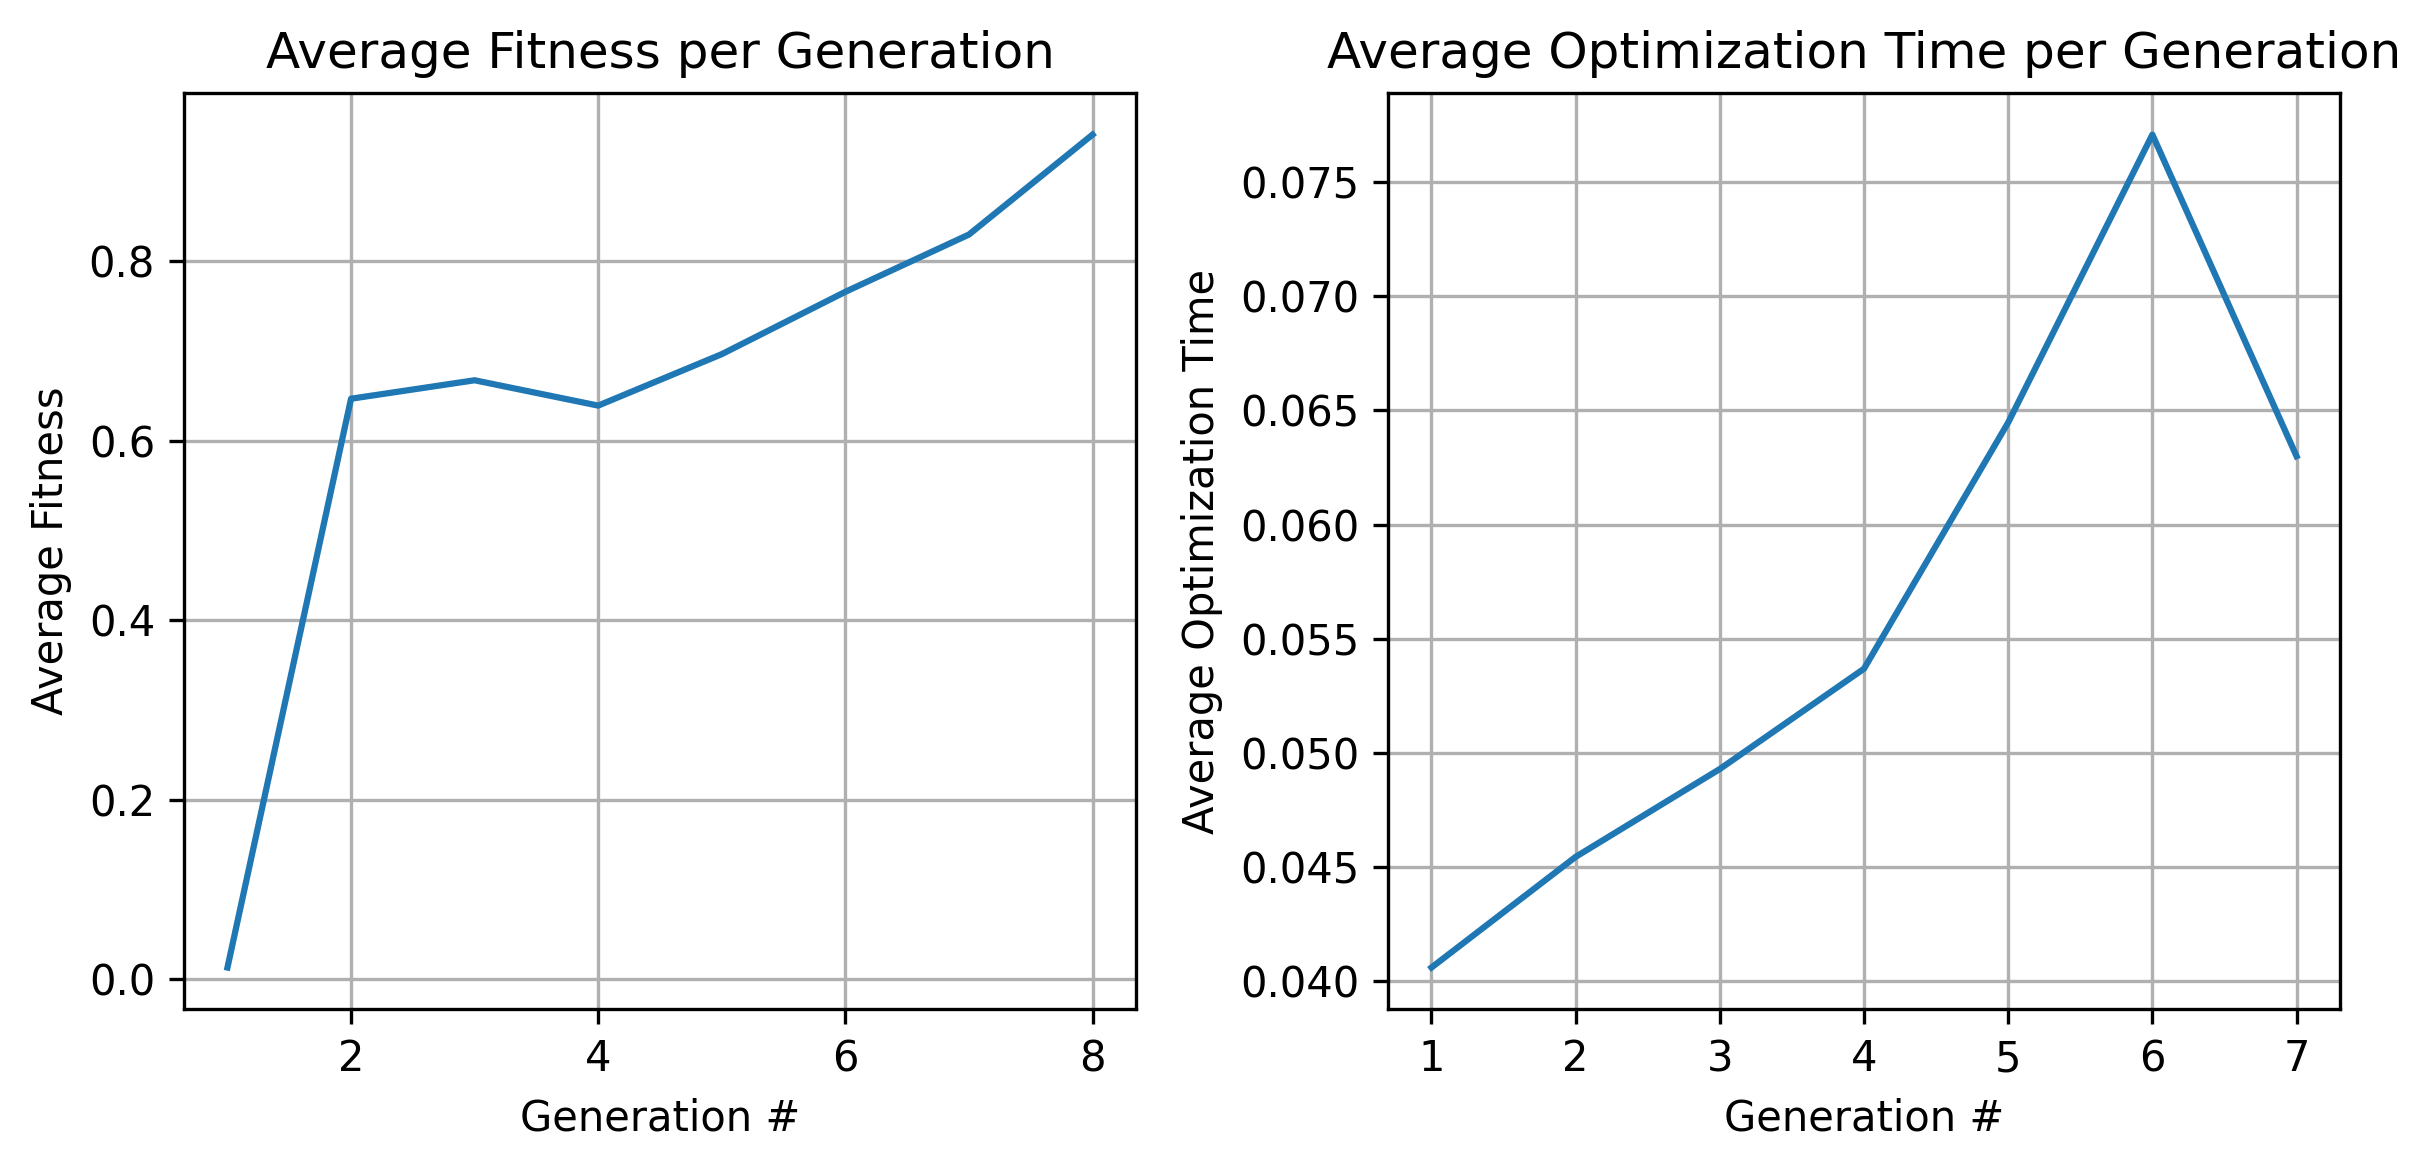
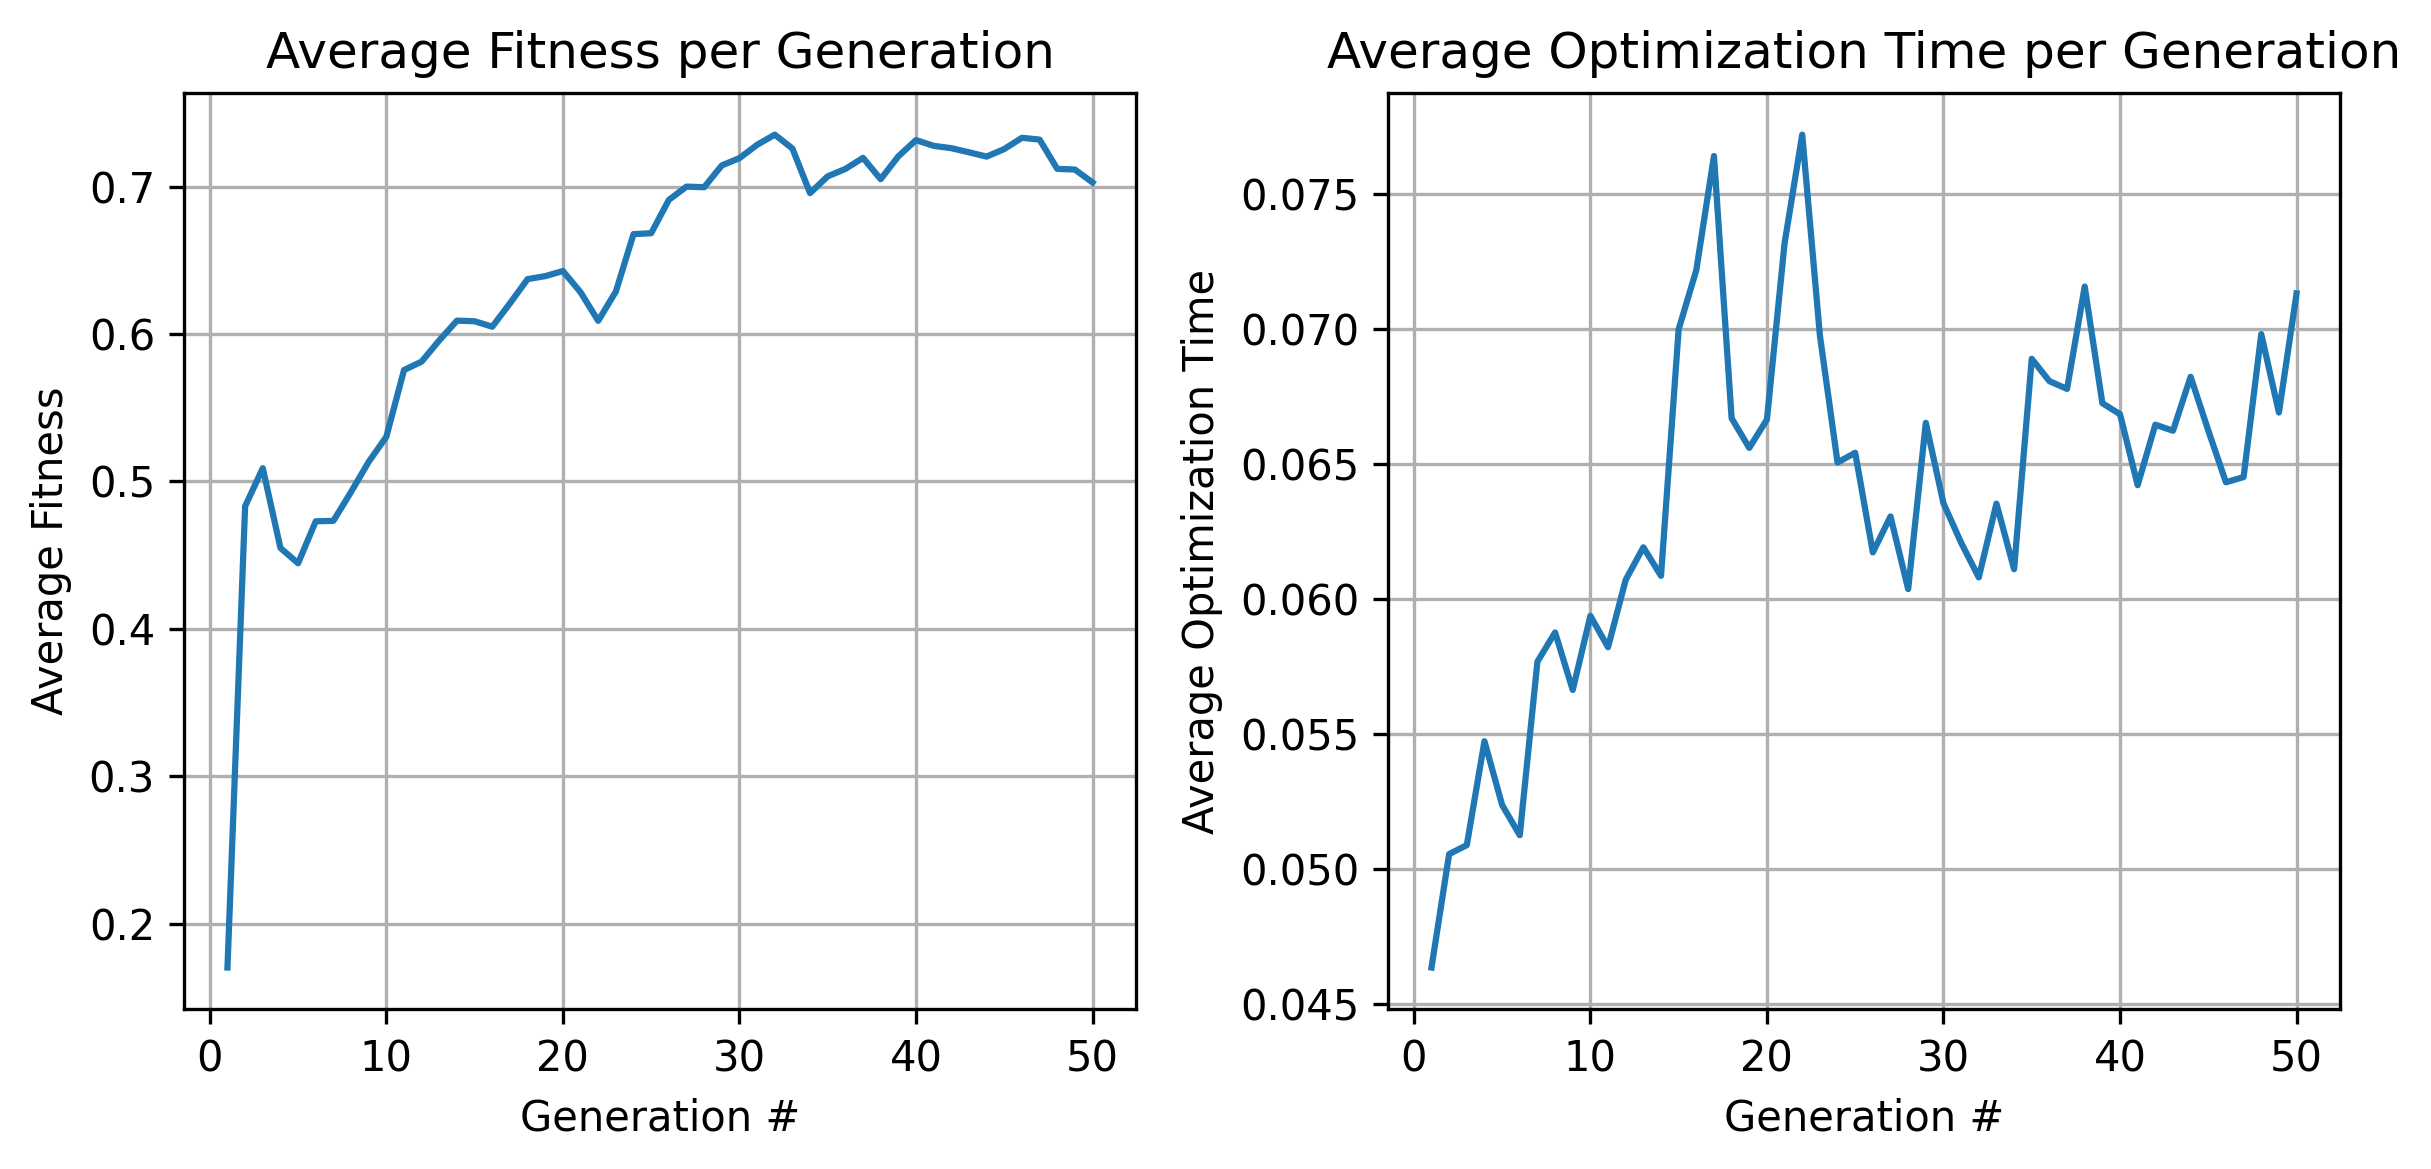
Hyperparameter search for ideal circuit depth parameter for random circuit initial population generation.

diff --git a/GASPGP/hyperparameter_search.py b/GASPGP/hyperparameter_search.py
@@ -1,0 +1,145 @@
+"""
+Hyperparameter search for good parameters to the initial population randomization. (Clauded)
+"""
+
+import json
+import os
+import sys
+import subprocess
+import itertools
+from datetime import datetime
+from pathlib import Path
+import numpy as np
+from run_GASP_experiment import run_experiment
+
+HYPERPARAMETER_GRID = {
+    'circuit_depth': [3, 5, 7],
+}
+
+NUM_TRIALS = 3  # Number of trials per hyperparameter config for robustness
+
+def run_hyperparameter_search():
+    """
+    Run hyperparameter search over the circuit depth parameter.
+    Each configuration is tested multiple times for statistical robustness.
+    """
+    results = []
+
+    print(f"Starting hyperparameter search at {datetime.now()}")
+    print(f"Testing circuit depths: {HYPERPARAMETER_GRID['circuit_depth']}")
+    print(f"Number of trials per config: {NUM_TRIALS}")
+    print("=" * 80)
+
+    for circuit_depth in HYPERPARAMETER_GRID['circuit_depth']:
+        print(f"\n{'='*80}")
+        print(f"Testing circuit_depth = {circuit_depth}")
+        print(f"{'='*80}\n")
+
+        trial_results = []
+
+        for trial in range(NUM_TRIALS):
+            print(f"\n--- Trial {trial + 1}/{NUM_TRIALS} for depth={circuit_depth} ---")
+
+            try:
+                result = run_experiment(circuit_depth=circuit_depth)
+                trial_results.append(result)
+
+                print(f"Trial {trial + 1} completed:")
+                print(f"  - Final generation: {result['final_generation']}")
+                print(f"  - Max fitness: {result['max_fitness']:.6f}")
+                print(f"  - Average fitness: {result['average_fitness']:.6f}")
+
+            except Exception as e:
+                print(f"Error in trial {trial + 1}: {e}")
+                trial_results.append({
+                    'error': str(e),
+                    'final_generation': 0,
+                    'max_fitness': 0.0,
+                    'average_fitness': 0.0,
+                    'iterations_since_improvement': 0,
+                    'final_population_size': 0
+                })
+
+        # Aggregate results across trials
+        successful_trials = [r for r in trial_results if 'error' not in r]
+
+        if successful_trials:
+            aggregated_result = {
+                'circuit_depth': circuit_depth,
+                'num_successful_trials': len(successful_trials),
+                'avg_final_generation': np.mean([r['final_generation'] for r in successful_trials]),
+                'std_final_generation': np.std([r['final_generation'] for r in successful_trials]),
+                'avg_max_fitness': np.mean([r['max_fitness'] for r in successful_trials]),
+                'std_max_fitness': np.std([r['max_fitness'] for r in successful_trials]),
+                'avg_average_fitness': np.mean([r['average_fitness'] for r in successful_trials]),
+                'std_average_fitness': np.std([r['average_fitness'] for r in successful_trials]),
+                'avg_iterations_since_improvement': np.mean([r['iterations_since_improvement'] for r in successful_trials]),
+                'raw_trials': trial_results
+            }
+        else:
+            aggregated_result = {
+                'circuit_depth': circuit_depth,
+                'num_successful_trials': 0,
+                'error': 'All trials failed',
+                'raw_trials': trial_results
+            }
+
+        results.append(aggregated_result)
+
+        print(f"\nAggregated results for depth={circuit_depth}:")
+        if successful_trials:
+            print(f"  - Successful trials: {len(successful_trials)}/{NUM_TRIALS}")
+            print(f"  - Avg max fitness: {aggregated_result['avg_max_fitness']:.6f} ± {aggregated_result['std_max_fitness']:.6f}")
+            print(f"  - Avg average fitness: {aggregated_result['avg_average_fitness']:.6f} ± {aggregated_result['std_average_fitness']:.6f}")
+            print(f"  - Avg final generation: {aggregated_result['avg_final_generation']:.2f} ± {aggregated_result['std_final_generation']:.2f}")
+        else:
+            print(f"  - All trials failed")
+
+    # Save results
+    timestamp = datetime.now().strftime("%Y%m%d_%H%M%S")
+    results_file = f"hyperparameter_searches/hyperparameter_results_{timestamp}.json"
+
+    with open(results_file, 'w') as f:
+        json.dump(results, f, indent=2)
+
+    print(f"\n{'='*80}")
+    print("HYPERPARAMETER SEARCH COMPLETE")
+    print(f"{'='*80}\n")
+    print(f"Results saved to: {results_file}")
+
+    # Find and report best configuration
+    successful_results = [r for r in results if r['num_successful_trials'] > 0]
+
+    if successful_results:
+        # Sort by average max fitness (primary metric)
+        best_by_max_fitness = max(successful_results, key=lambda x: x['avg_max_fitness'])
+        # Sort by average average fitness (alternative metric)
+        best_by_avg_fitness = max(successful_results, key=lambda x: x['avg_average_fitness'])
+        # Sort by convergence speed (fewer generations is better)
+        best_by_speed = min(successful_results, key=lambda x: x['avg_final_generation'])
+
+        print("\nBEST CONFIGURATIONS:")
+        print(f"\nBest by max fitness achieved:")
+        print(f"  circuit_depth = {best_by_max_fitness['circuit_depth']}")
+        print(f"  Avg max fitness: {best_by_max_fitness['avg_max_fitness']:.6f} ± {best_by_max_fitness['std_max_fitness']:.6f}")
+
+        print(f"\nBest by average population fitness:")
+        print(f"  circuit_depth = {best_by_avg_fitness['circuit_depth']}")
+        print(f"  Avg average fitness: {best_by_avg_fitness['avg_average_fitness']:.6f} ± {best_by_avg_fitness['std_average_fitness']:.6f}")
+
+        print(f"\nFastest convergence:")
+        print(f"  circuit_depth = {best_by_speed['circuit_depth']}")
+        print(f"  Avg generations: {best_by_speed['avg_final_generation']:.2f} ± {best_by_speed['std_final_generation']:.2f}")
+
+        print("\n" + "="*80)
+        print("\nRECOMMENDATION:")
+        print(f"Use circuit_depth = {best_by_max_fitness['circuit_depth']} for best overall fitness performance")
+        print("="*80)
+    else:
+        print("\nNo successful trials. Check experiment configuration.")
+
+    return results
+
+
+if __name__ == '__main__':
+    run_hyperparameter_search()

diff --git a/GASPGP/run_GASP_experiment.py b/GASPGP/run_GASP_experiment.py
@@ -13,7 +13,7 @@ from GASP_steps import run_circuit, select_gene, create_individual, create_popul
 from direct_angle_optimizer import optimize_angles
 from population_evals import selected_subset
 
-def run_experiment():
+def run_experiment(circuit_depth=3):
     init_pop_size = 5000
     n = 3
     mutation_rate = 0.5
@@ -22,7 +22,7 @@ def run_experiment():
     maxiter = 500
     minimum_pop_size = 500
 
-    population = create_population(init_pop_size)
+    population = create_population(init_pop_size, depth=circuit_depth)
     iterations_since_improvement = 0
     max_fitness_overall = 0
     average_fitness_overall = 0
@@ -126,6 +126,14 @@ def run_experiment():
     print("SELECTED INDIVIDUALS: ", selected_individuals)
 
     print(f"Experiment complete!")
+
+    return {
+        'final_generation': generation,
+        'max_fitness': max_fitness_overall,
+        'average_fitness': average_fitness_overall,
+        'iterations_since_improvement': iterations_since_improvement,
+        'final_population_size': len(population)
+    }
 
 
 if __name__ == '__main__':

diff --git a/GASPGP/GASP_steps.py b/GASPGP/GASP_steps.py
@@ -72,20 +72,20 @@ def create_individual():
         individual += [gene]
     return individual
 
-def create_random_individual():
+def create_random_individual(depth=3):
     """
     O: gene format
     """
-    rando_circuit = random_circuit(n, max_operands=2, depth=3)
+    rando_circuit = random_circuit(n, max_operands=2, depth=depth)
     to_gene = circuit_to_individual(rando_circuit)
     return to_gene
 
 
-def create_population(init_pop_size):
+def create_population(init_pop_size, depth=3):
     population = []
     for i in range(init_pop_size):
         # population += [create_individual()]
-        population += [create_random_individual()]
+        population += [create_random_individual(depth)]
     return population
 
 
